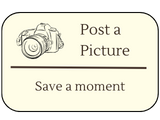
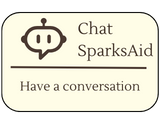
Updated Suggested_Activities

diff --git a/components/home/Suggested_Activities.js b/components/home/Suggested_Activities.js
@@ -8,11 +8,11 @@ const Suggested_Activities = ({navigation}) => {
         <View style={styles.containerDirectory}>
             <ScrollView horizontal showsHorizontalScrollIndicator={false}>
                 <TouchableOpacity onPress={() => navigation.push('ChatBotScreen')}>
-                    <Image style={styles.directory} source={require('../../assets/HomeScreenAssets/SuggestedActivities_2.png')}/>
+                    <Image style={styles.directory} source={require('../../assets/HomeScreenAssets/SuggestedActivities_1.png')}/>
                 </TouchableOpacity>
 
-                <TouchableOpacity onPress={() => navigation.push('NewPostScreen')}>
-                    <Image style={styles.directory} source={require('../../assets/HomeScreenAssets/SuggestedActivities_1.png')}/> 
+                <TouchableOpacity onPress={() => navigation.push('NewProfilePictureScreen')}>
+                    <Image style={styles.directory} source={require('../../assets/HomeScreenAssets/SuggestedActivities_2.png')}/> 
                 </TouchableOpacity>
                 
                 <TouchableOpacity onPress={() => navigation.push('CompanionScreen')}>
